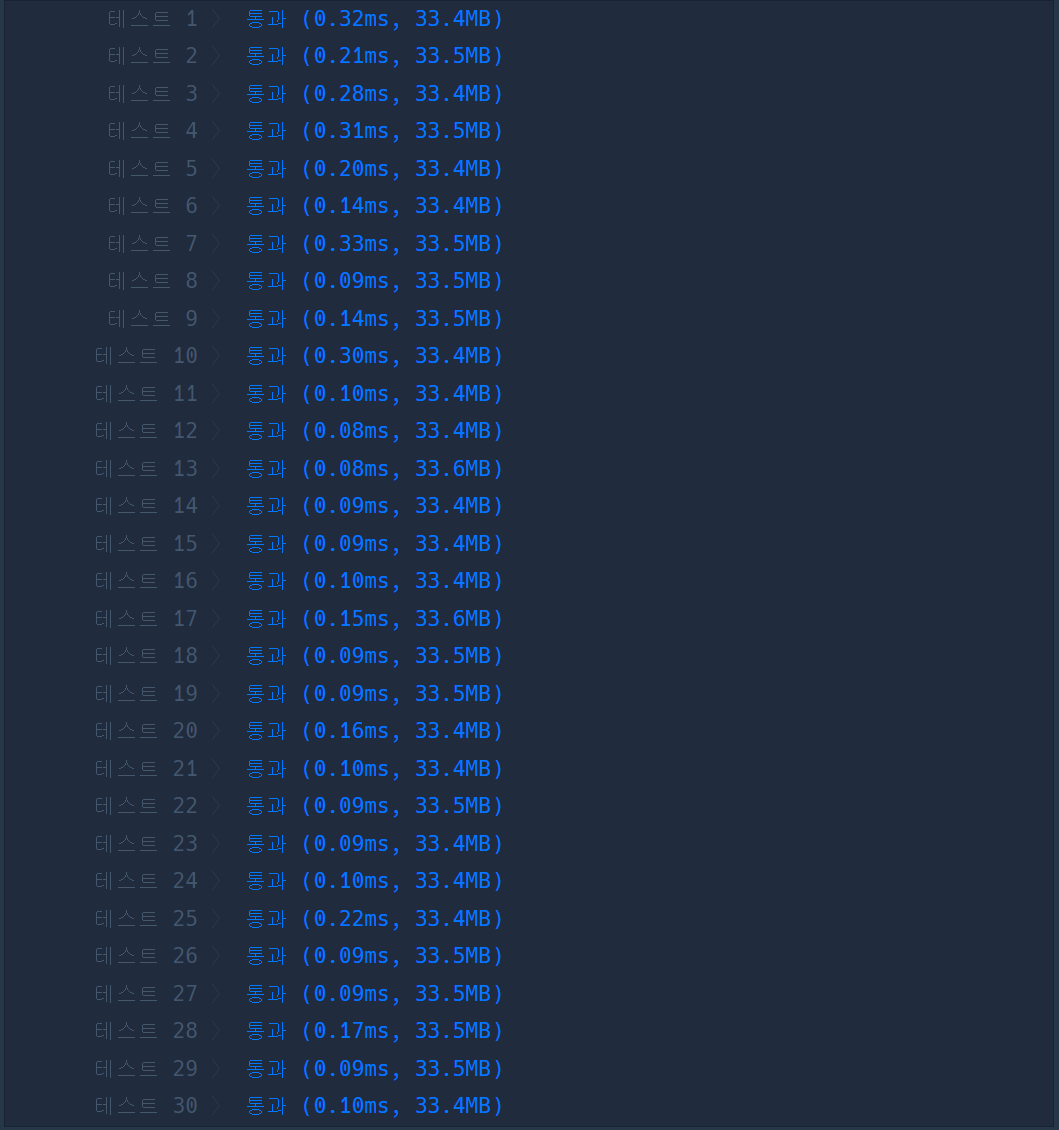
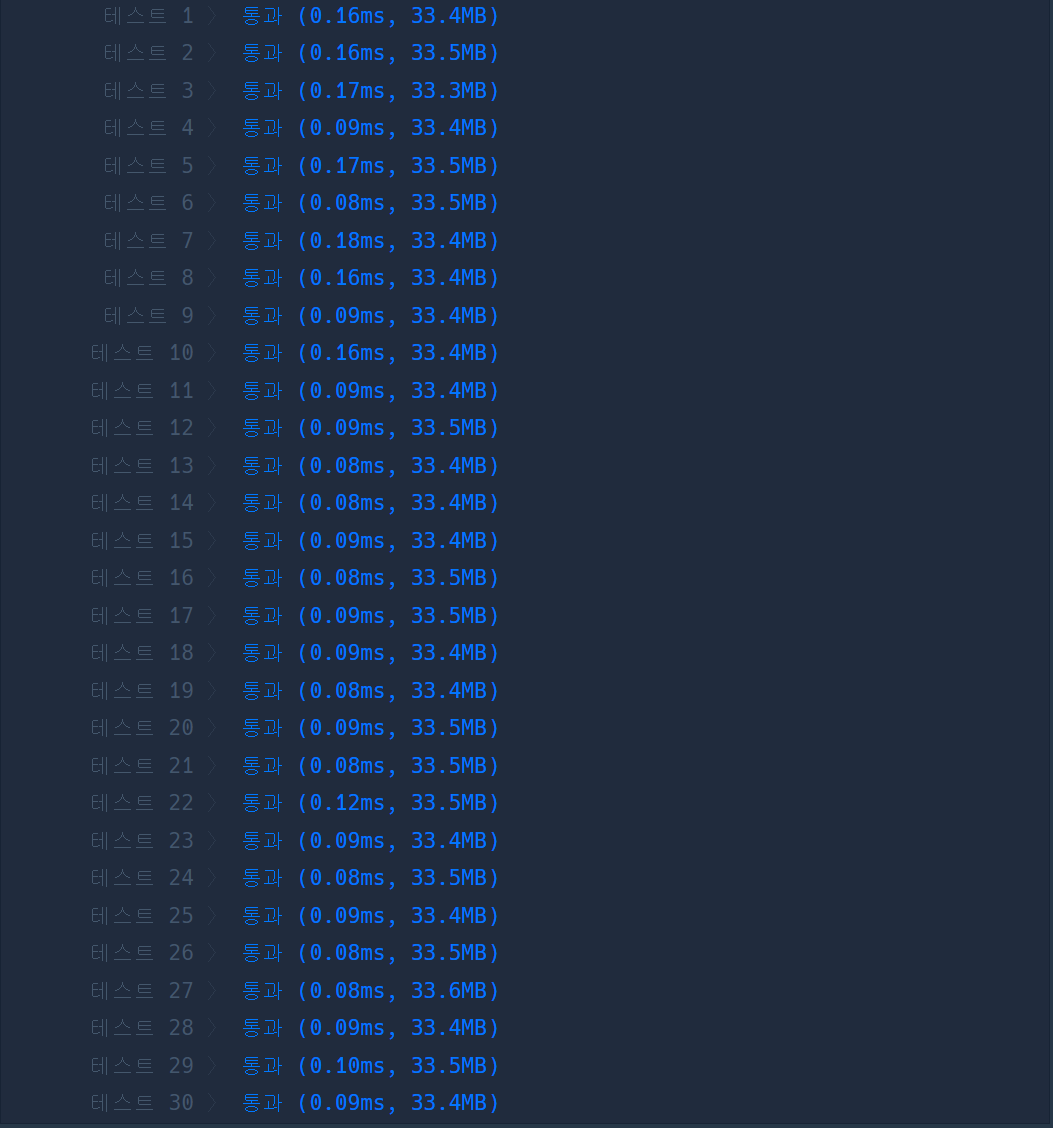
포스트 추가

diff --git a/_posts/2023/09/11/2023-09-11-algorithm-64.md b/_posts/2023/09/11/2023-09-11-algorithm-64.md
@@ -68,14 +68,11 @@ function solution(n, lost, reserve) {
 ## 개선
 ```javascript
 function solution(n, lost, reserve) {
-    const students = {};
-    for (let i = 1; i <= n; i++) {
-        students[i] = 1;
-    }
-    lost.forEach(number => students[number] -= 1);
-    reserve.forEach(number => students[number] += 1);
+    const students = Array(n).fill(1);
+    lost.forEach(n => students[n-1] -= 1);
+    reserve.forEach(n => students[n-1] += 1);
 
-    for (let i = 1; i <= n; i++) {
+    for (let i = 0; i < n; i++) {
         if (students[i] === 2 && students[i-1] === 0) {
             students[i-1]++;
             students[i]--;
